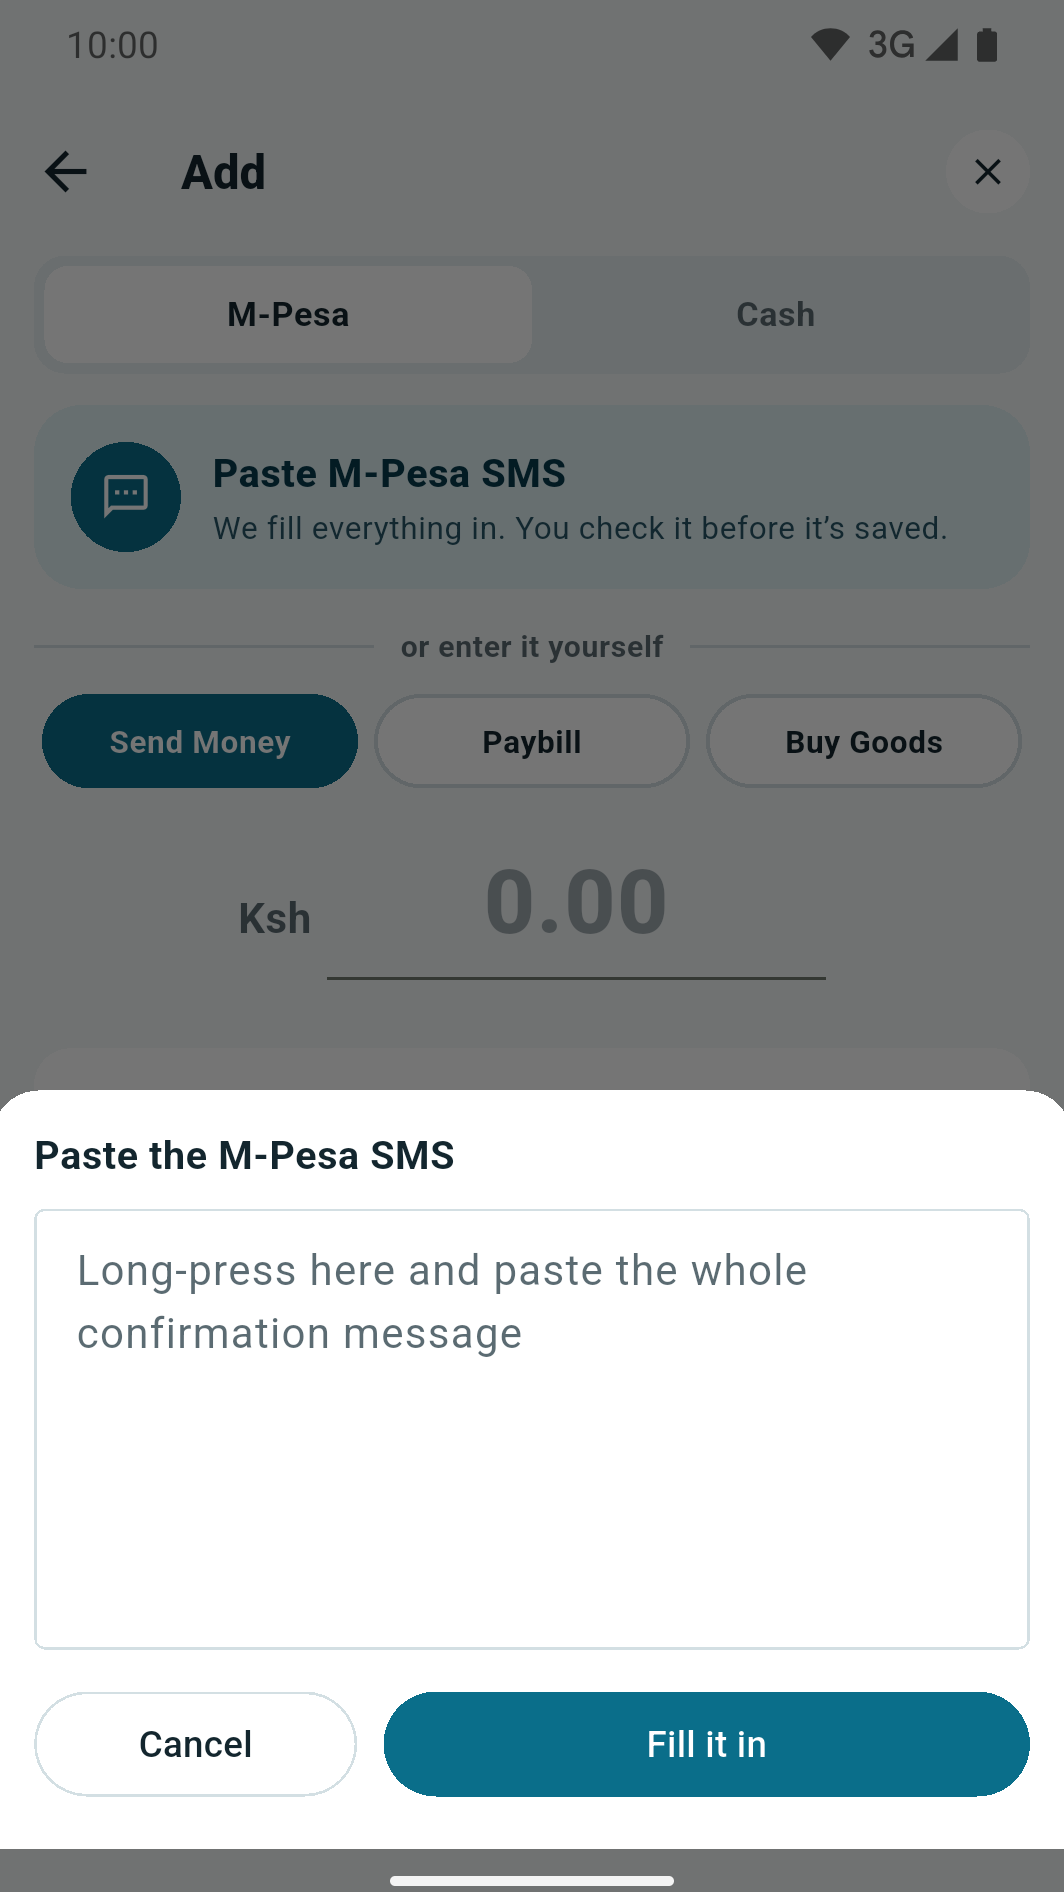
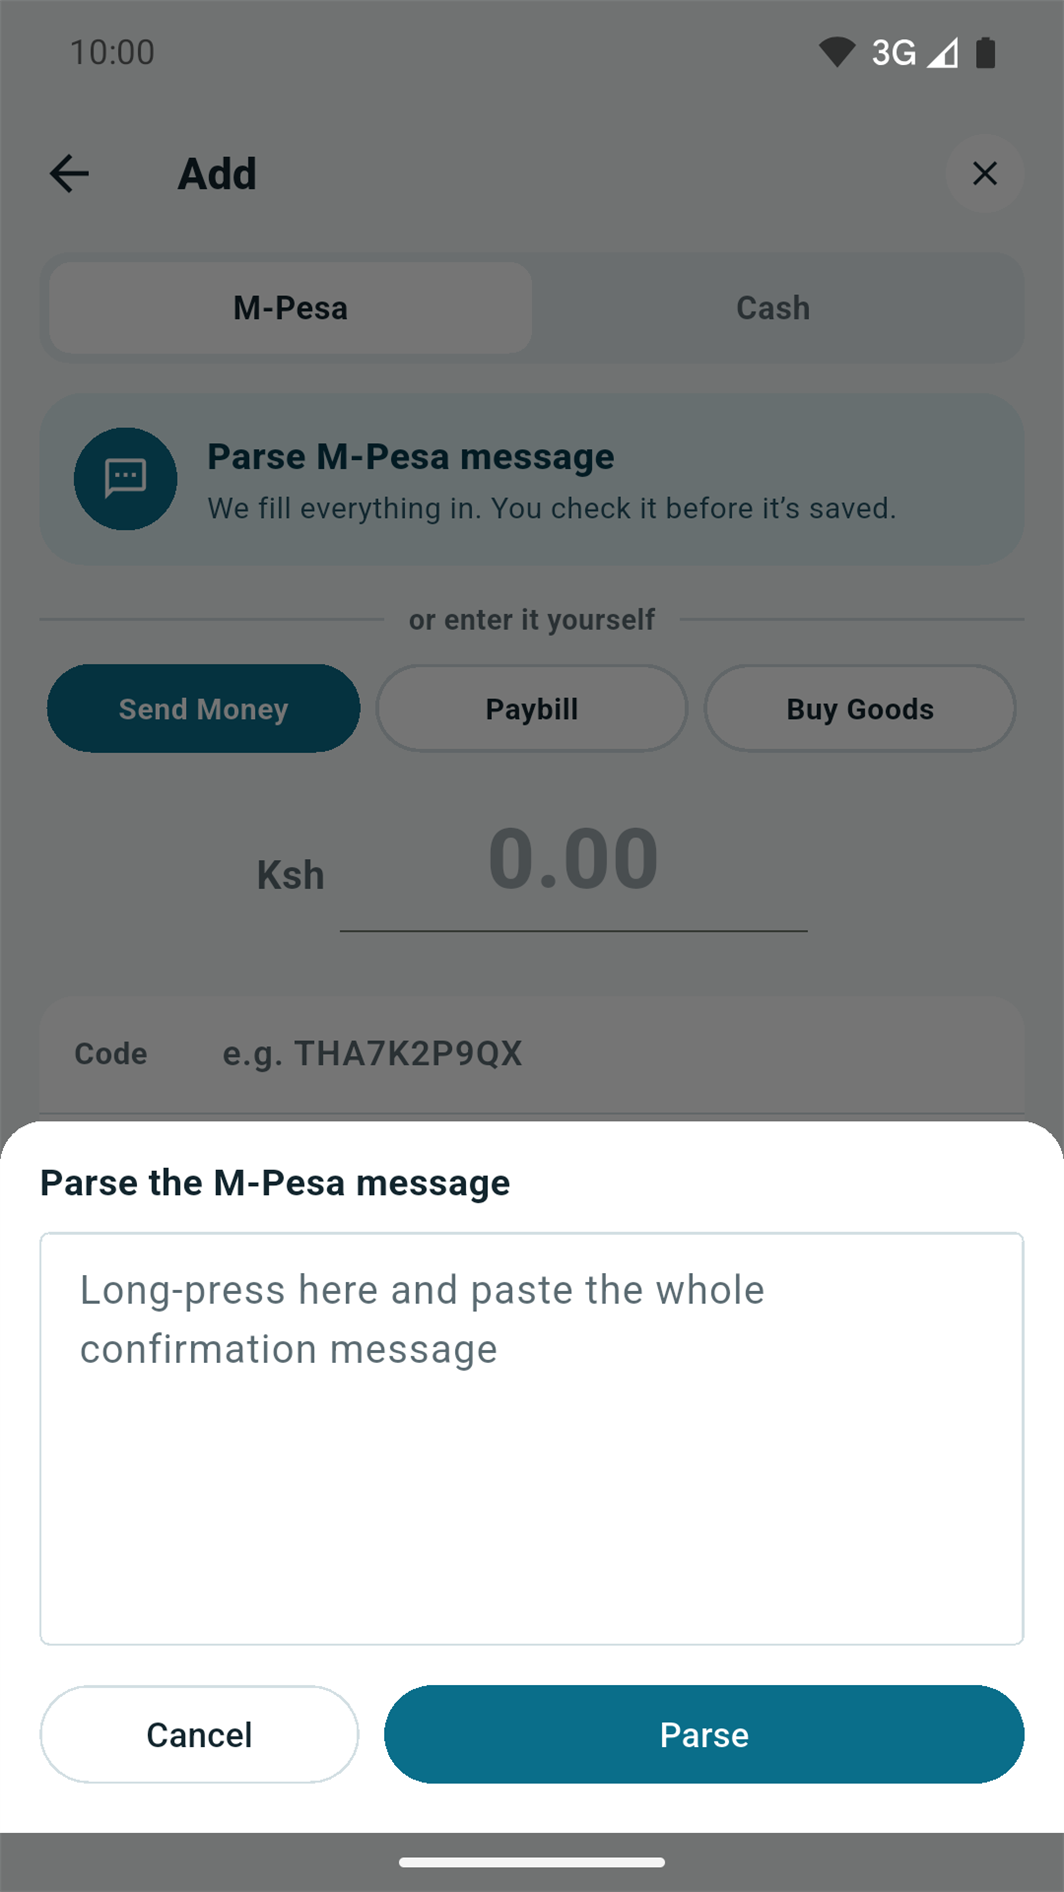
Add: one 'Parse' wording (card, sheet, button, hint); recapture onboarding step 2 sheet image

diff --git a/lib/ui/screens/add/paste_card.dart b/lib/ui/screens/add/paste_card.dart
@@ -104,7 +104,7 @@ class PasteCard extends StatelessWidget {
                   crossAxisAlignment: CrossAxisAlignment.start,
                   children: [
                     Text(
-                      'Paste M-Pesa SMS',
+                      'Parse M-Pesa message',
                       style: TextStyle(fontSize: 15, fontWeight: FontWeight.w800, color: palette.tintInk),
                     ),
                     const SizedBox(height: 2),
@@ -171,7 +171,7 @@ class _PasteSheetState extends State<_PasteSheet> {
             crossAxisAlignment: CrossAxisAlignment.stretch,
             children: [
               Text(
-                'Paste the M-Pesa SMS',
+                'Parse the M-Pesa message',
                 style: TextStyle(fontSize: 15, fontWeight: FontWeight.w700, color: palette.ink),
               ),
               const SizedBox(height: 10),
@@ -227,7 +227,7 @@ class _PasteSheetState extends State<_PasteSheet> {
                         backgroundColor: palette.primary,
                         foregroundColor: palette.onPrimary,
                       ),
-                      child: const Text('Fill it in'),
+                      child: const Text('Parse'),
                     ),
                   ),
                 ],

diff --git a/test/ui/screens/add_screen_hint_test.dart b/test/ui/screens/add_screen_hint_test.dart
@@ -76,9 +76,9 @@ void main() {
     await _pumpAdd(tester);
     expect(find.text(addHintMessage), findsOneWidget);
     expect(_visible(_bubble), isTrue);
-    expect(find.descendant(of: find.byKey(_pasteBtn), matching: find.text('Paste M-Pesa SMS')), findsOneWidget);
+    expect(find.descendant(of: find.byKey(_pasteBtn), matching: find.text('Parse M-Pesa message')), findsOneWidget);
     expect(find.descendant(of: find.byKey(_cashToggle), matching: find.text('Cash')), findsOneWidget);
-    expect(addHintMessage, contains('"Paste M-Pesa SMS"'));
+    expect(addHintMessage, contains('"Parse M-Pesa message"'));
     expect(addHintMessage, contains('Cash'));
   });
 

diff --git a/lib/ui/screens/add/add_screen.dart b/lib/ui/screens/add/add_screen.dart
@@ -34,7 +34,7 @@ import 'type_pills.dart';
 /// M-Pesa message" button.
 const addHintId = 'add_hint';
 const addHintMessage =
-    'Tap "Paste M-Pesa SMS" and paste an M-Pesa confirmation message — it fills the form in for you. '
+    'Tap "Parse M-Pesa message" and paste an M-Pesa confirmation message — it fills the form in for you. '
     'You can also enter it yourself below. Paid in cash? Switch to Cash.';
 
 /// Reached from the primary FAB (`Routes.add`) — a pushed page, never a
